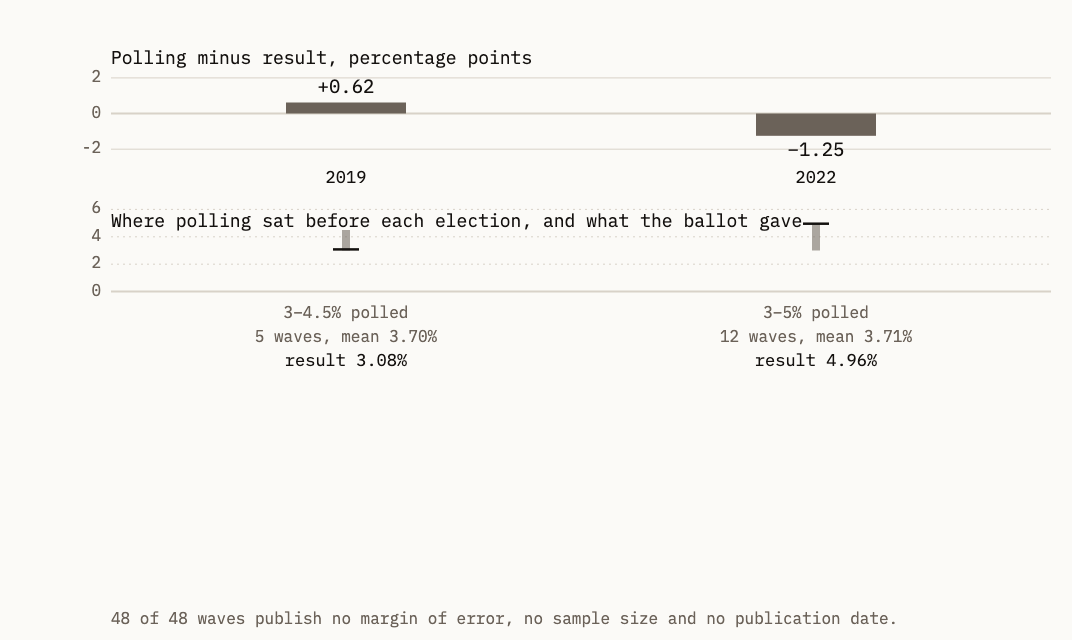
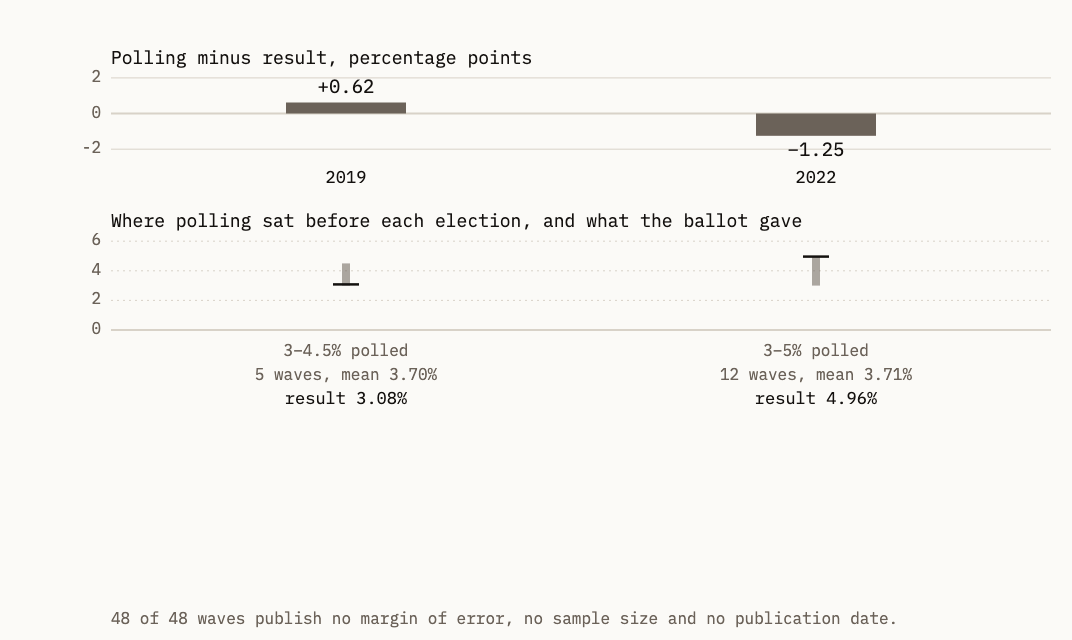
Start panel 2's plot below its own title
Chart 01's wide variant drew its panel-2 title inside the plot it labels.
The title's last glyph ended at x=795.2 and the 2022 result cap bar began
at x=796, at the same height, so "gave" read as struck through. Found by
eye on a screenshot; every existing check passed, because the overlap
check compares text to text and this is text to line.

The guard's direction was the bug, not its value. The plot was lowered to
clear its title only when span_title_y < gap_bottom + 64. Wide places the
title at 227.16 against a bound of 213.16, so the branch never ran -- and
it is false exactly when clearing panel 1 pushed the title furthest down,
which is the only case that needs the room. Each constant is reasonable;
the comparison named the wrong neighbour.

Extracting the placement to test the invariant surfaced a second flaw in
the same three lines: the first cut read span_title_y + 14, which measures
a one-line title's descent, but the title wraps to three lines on narrow,
so a wrapped title would be measured from its first baseline rather than
its last -- the same category of error, in the code written to fix it.
Replaced by title_block_bottom(baseline, n_lines), and the narrow fixture
corrected from two lines to the three it really renders.

Resolved as the geometry option rather than shortening the title, because
the editorial fix leaves the title drawn inside the plot and any longer
title brings the clash back.
[…]

Changed region(s): [[0.2155, 0.3438, 0.431, 0.6562], [0.6465, 0.3438, 0.8619, 0.6562], [0.0616, 0.4375, 0.0924, 0.4688]]

diff --git a/index.html b/index.html
@@ -105,26 +105,26 @@
   <text x="809.0" y="183.16000000000003" text-anchor="middle" font-size="17" text-anchor="middle" fill="var(--color-ink)">2022</text>
   <text x="809.0" y="155.8" text-anchor="middle" font-size="19" text-anchor="middle" fill="var(--color-ink)">−1.25</text>
   <text x="104" y="227.2" font-size="18" fill="var(--color-ink)">Where polling sat before each election, and what the ballot gave</text>
-  <line x1="104" y1="291.6" x2="1044" y2="291.6" stroke="var(--color-rule)" stroke-width="2" stroke-dasharray="none" />
-  <text x="94" y="295.6" font-size="16" text-anchor="end" fill="var(--color-ink-muted)">0</text>
-  <line x1="104" y1="264.2" x2="1044" y2="264.2" stroke="var(--color-rule)" stroke-width="1" stroke-dasharray="2 4" />
-  <text x="94" y="268.2" font-size="16" text-anchor="end" fill="var(--color-ink-muted)">2</text>
-  <line x1="104" y1="236.8" x2="1044" y2="236.8" stroke="var(--color-rule)" stroke-width="1" stroke-dasharray="2 4" />
-  <text x="94" y="240.8" font-size="16" text-anchor="end" fill="var(--color-ink-muted)">4</text>
-  <line x1="104" y1="209.4" x2="1044" y2="209.4" stroke="var(--color-rule)" stroke-width="1" stroke-dasharray="2 4" />
-  <text x="94" y="213.4" font-size="16" text-anchor="end" fill="var(--color-ink-muted)">6</text>
-  <line x1="339.0" y1="250.5" x2="339.0" y2="230.0" stroke="var(--band-edge)" stroke-width="8" stroke-linecap="butt" opacity="0.55" />
-  <line x1="339.0" y1="241.0" x2="339.0" y2="241.0" stroke="var(--color-ink)" stroke-width="1" />
-  <line x1="326.0" y1="249.4" x2="352.0" y2="249.4" stroke="var(--color-ink)" stroke-width="2.5" />
-  <text x="339.0" y="317.64" font-size="16" text-anchor="middle" fill="var(--color-ink-muted)">3&#8211;4.5% polled</text>
-  <text x="339.0" y="341.64" font-size="16" text-anchor="middle" fill="var(--color-ink-muted)">5 waves, mean 3.70%</text>
-  <text x="339.0" y="365.64" font-size="17" text-anchor="middle" fill="var(--color-ink)">result 3.08%</text>
-  <line x1="809.0" y1="250.5" x2="809.0" y2="223.1" stroke="var(--band-edge)" stroke-width="8" stroke-linecap="butt" opacity="0.55" />
-  <line x1="809.0" y1="240.8" x2="809.0" y2="240.8" stroke="var(--color-ink)" stroke-width="1" />
-  <line x1="796.0" y1="223.7" x2="822.0" y2="223.7" stroke="var(--color-ink)" stroke-width="2.5" />
-  <text x="809.0" y="317.64" font-size="16" text-anchor="middle" fill="var(--color-ink-muted)">3&#8211;5% polled</text>
-  <text x="809.0" y="341.64" font-size="16" text-anchor="middle" fill="var(--color-ink-muted)">12 waves, mean 3.71%</text>
-  <text x="809.0" y="365.64" font-size="17" text-anchor="middle" fill="var(--color-ink)">result 4.96%</text>
+  <line x1="104" y1="330.0" x2="1044" y2="330.0" stroke="var(--color-rule)" stroke-width="2" stroke-dasharray="none" />
+  <text x="94" y="334.0" font-size="16" text-anchor="end" fill="var(--color-ink-muted)">0</text>
+  <line x1="104" y1="300.4" x2="1044" y2="300.4" stroke="var(--color-rule)" stroke-width="1" stroke-dasharray="2 4" />
+  <text x="94" y="304.4" font-size="16" text-anchor="end" fill="var(--color-ink-muted)">2</text>
+  <line x1="104" y1="270.8" x2="1044" y2="270.8" stroke="var(--color-rule)" stroke-width="1" stroke-dasharray="2 4" />
+  <text x="94" y="274.8" font-size="16" text-anchor="end" fill="var(--color-ink-muted)">4</text>
+  <line x1="104" y1="241.2" x2="1044" y2="241.2" stroke="var(--color-rule)" stroke-width="1" stroke-dasharray="2 4" />
+  <text x="94" y="245.2" font-size="16" text-anchor="end" fill="var(--color-ink-muted)">6</text>
+  <line x1="339.0" y1="285.6" x2="339.0" y2="263.4" stroke="var(--band-edge)" stroke-width="8" stroke-linecap="butt" opacity="0.55" />
+  <line x1="339.0" y1="275.2" x2="339.0" y2="275.2" stroke="var(--color-ink)" stroke-width="1" />
+  <line x1="326.0" y1="284.4" x2="352.0" y2="284.4" stroke="var(--color-ink)" stroke-width="2.5" />
+  <text x="339.0" y="356" font-size="16" text-anchor="middle" fill="var(--color-ink-muted)">3&#8211;4.5% polled</text>
+  <text x="339.0" y="380" font-size="16" text-anchor="middle" fill="var(--color-ink-muted)">5 waves, mean 3.70%</text>
+  <text x="339.0" y="404" font-size="17" text-anchor="middle" fill="var(--color-ink)">result 3.08%</text>
+  <line x1="809.0" y1="285.6" x2="809.0" y2="256.0" stroke="var(--band-edge)" stroke-width="8" stroke-linecap="butt" opacity="0.55" />
+  <line x1="809.0" y1="275.1" x2="809.0" y2="275.1" stroke="var(--color-ink)" stroke-width="1" />
+  <line x1="796.0" y1="256.6" x2="822.0" y2="256.6" stroke="var(--color-ink)" stroke-width="2.5" />
+  <text x="809.0" y="356" font-size="16" text-anchor="middle" fill="var(--color-ink-muted)">3&#8211;5% polled</text>
+  <text x="809.0" y="380" font-size="16" text-anchor="middle" fill="var(--color-ink-muted)">12 waves, mean 3.71%</text>
+  <text x="809.0" y="404" font-size="17" text-anchor="middle" fill="var(--color-ink)">result 4.96%</text>
   <text x="104" y="624" font-size="16" fill="var(--color-ink-muted)">48 of 48 waves publish no margin of error, no sample size and no publication date.</text>
   </svg>
     <svg xmlns="http://www.w3.org/2000/svg" viewBox="0 0 420 620" class="chart chart-narrow" role="img" aria-labelledby="chart-01-title-narrow chart-01-desc-narrow" data-source-id="roymorgan-pvi aec-hor-2019-fp-by-party aec-hor-2022-fp-by-party" font-family="IBM Plex Mono, ui-monospace, monospace" style="aspect-ratio: 420 / 620; font-variant-numeric: tabular-nums">

diff --git a/tests/test_scales.py b/tests/test_scales.py
@@ -2380,3 +2380,96 @@ class TestVariantBreakpoint(unittest.TestCase):
         self.assertRegex(
             design, r"Never smaller than 16px", "DESIGN.md no longer states the label floor"
         )
+
+
+class TestPanel2TitlePlacement(unittest.TestCase):
+    """Panel 2's plot must start below its own title, on both viewports.
+
+    Written because the wide variant drew the title *inside* the plot it labels,
+    and its last glyph met the 2022 result marker 0.8px away. The old code
+    solved only the opposite problem (a title too high, overrunning panel 1) and
+    its guard could not fire in the case that needed it. See the 2026-10-18
+    Events entry: the numbers below are measured in a browser, not derived from
+    the source.
+    """
+
+    ROOT = Path(__file__).resolve().parent.parent
+
+    def setUp(self):
+        sys.path.insert(0, str(self.ROOT / "charts"))
+        import chart_01
+        self.mod = chart_01
+
+    def place(self, *, gap_bottom, span_top, n_lines, plot_bottom=330.0):
+        return self.mod.panel2_placement(
+            gap_bottom=gap_bottom, span_top=span_top,
+            span_bottom=span_top + 80, plot_bottom=plot_bottom,
+            n_span_lines=n_lines,
+        )
+
+    def wide(self):
+        # plot Box(top=56, bottom=330), GAP_PANEL_BOTTOM=0.34, SPAN_PANEL_TOP=0.56
+        return self.place(gap_bottom=149.16, span_top=209.44, n_lines=1)
+
+    def narrow(self):
+        # plot Box(top=52, bottom=342), same fractions. Narrow's title wraps to
+        # three lines at a 340-unit plot, which is the case the clamp branch
+        # exists for.
+        return self.place(gap_bottom=150.6, span_top=214.4, n_lines=3, plot_bottom=342.0)
+
+    def test_wide_plot_starts_below_its_own_title(self):
+        baseline, plot_top, _ = self.wide()
+        block_bottom = self.mod.title_block_bottom(baseline, 1)
+        self.assertGreaterEqual(
+            plot_top, block_bottom,
+            "panel 2's plot starts above the bottom of its own title, so the "
+            "title is drawn through the data",
+        )
+        # The defect measured 0.8px between the last glyph and the marker.
+        self.assertGreaterEqual(
+            plot_top - block_bottom, 0, "the title and the plot overlap"
+        )
+
+    def test_narrow_still_clears_panel_one(self):
+        baseline, plot_top, _ = self.narrow()
+        self.assertGreaterEqual(baseline, 150.6 + 64, "narrow's title rose into panel 1")
+        self.assertGreaterEqual(
+            plot_top, self.mod.title_block_bottom(baseline, 3),
+            "the invariant must hold for a three-line title too",
+        )
+        # The numbers the committed narrow SVG actually renders, so a change to
+        # the constants cannot silently move the mobile view.
+        self.assertAlmostEqual(baseline, 214.6, places=1)
+        self.assertAlmostEqual(plot_top, 280.6, places=1)
+
+    def test_two_line_block_measured_from_the_last_baseline(self):
+        """Wrap grows downward from the placement; the old elif used +14 only."""
+        one = self.mod.title_block_bottom(227.16, 1)
+        two = self.mod.title_block_bottom(227.16, 2)
+        self.assertAlmostEqual(two - one, self.mod.TITLE_LEADING, places=9)
+
+    def test_old_guard_could_not_fire_in_the_case_it_needed(self):
+        """Encode the superseded logic and show it violates the invariant.
+
+        Without this the test suite would pass on both the fix and the bug,
+        which is the recurring failure mode in this repo: a guard that points
+        at the wrong reference and stays green on the defect.
+        """
+        gap_bottom, span_top, n = 149.16, 209.44, 1
+        y = max(span_top - 14, gap_bottom + 78) - (n - 1) * 26
+        if y < gap_bottom + 64:      # the only branch the old code had
+            y = gap_bottom + 64
+            old_plot_top = y + 14 + (n - 1) * 26
+        else:
+            old_plot_top = span_top  # ...and this is the branch wide takes
+        self.assertGreater(
+            self.mod.title_block_bottom(y, n), old_plot_top,
+            "the superseded logic no longer leaves the title inside the plot, so "
+            "this test no longer demonstrates the bug it documents"
+        )
+        # ...and the current logic does not.
+        fixed = self.place(gap_bottom=gap_bottom, span_top=span_top, n_lines=n)
+        self.assertLessEqual(
+            self.mod.title_block_bottom(fixed[0], n), fixed[1],
+            "the fix does not satisfy the invariant it was written for"
+        )

diff --git a/charts/chart_01.py b/charts/chart_01.py
@@ -162,6 +162,60 @@ def gap_scale(plot: Box, values: list[float], span: float) -> Scale:
     return Scale(d0=nice_lo, d1=nice_hi, r0=plot.bottom, r1=plot.top)
 
 
+# Panel 2's title is placed against two different neighbours, and only solving
+# one of them produced two rounds of the same bug.
+PANEL1_CAPTION_CLEARANCE = 78   # below panel 1's axis, above panel 2's plot
+TITLE_DESCENT = 14              # box an 18px baseline carries beneath it
+TITLE_LEADING = 26              # step between wrapped title lines
+
+
+def title_block_bottom(baseline_y: float, n_lines: int) -> float:
+    """Lowest point of a wrapped title: last line's baseline plus its descent."""
+    return baseline_y + TITLE_DESCENT + (n_lines - 1) * TITLE_LEADING
+
+
+def panel2_placement(
+    *,
+    gap_bottom: float,
+    span_top: float,
+    span_bottom: float,
+    plot_bottom: float,
+    n_span_lines: int,
+) -> tuple[float, float, float]:
+    """Return (title baseline, plot top, plot bottom) for panel 2.
+
+    Two crowding problems point in opposite directions:
+
+    * The title can sit too *high*, overrun panel 1's captions, and be drawn
+      through them. That is the narrow variant, whose title wraps to two lines.
+    * The title can sit too *low*, inside panel 2's own plot area, and be drawn
+      through the data. That is the wide variant.
+
+    The original code handled only the first. Its guard tested
+    `span_title_y < gap_bottom + 64`, which is false exactly when clearing
+    panel 1 pushed the title furthest down -- the only case that then needed
+    the plot moved out of its way. On the wide variant the baseline landed at
+    227.16, below `span_top` of 209.44, so the title drew inside its own plot
+    and its last glyph met the 2022 result marker 0.8px away. Measured in a
+    browser, not inferred: see the 2026-10-18 Events entry, and
+    `tools/verify.mjs`, which reports the closest label-to-mark gap.
+
+    The invariant both branches now enforce is that the plot starts at or below
+    the bottom of its own title.
+    """
+    title_y = max(span_top - TITLE_DESCENT, gap_bottom + PANEL1_CAPTION_CLEARANCE)
+    # Extra lines grow upward from the placement, so the first line lifts.
+    title_y -= (n_span_lines - 1) * TITLE_LEADING
+
+    if title_y < gap_bottom + 64:
+        title_y = gap_bottom + 64
+        return title_y, title_block_bottom(title_y, n_span_lines), plot_bottom
+    block_bottom = title_block_bottom(title_y, n_span_lines)
+    if block_bottom > span_top:
+        return title_y, block_bottom, plot_bottom
+    return title_y, span_top, span_bottom
+
+
 def render(viewport: str, panels: dict) -> str:
     cfg = VIEWPORTS[viewport]
     w, h, plot = cfg["w"], cfg["h"], cfg["plot"]
@@ -194,18 +248,13 @@ def render(viewport: str, panels: dict) -> str:
     span_top = plot.top + box_h * SPAN_PANEL_TOP
     span_bottom = plot.top + box_h * SPAN_PANEL_BOTTOM
 
-    # Panel 1's labels sit below its axis; panel 2's title must clear them, and
-    # must clear its own extra lines. Both are measured in bounding boxes: an
-    # 18px line's box is about 23 units tall.
-    span_title_y = max(
-        span_top - 14,
-        gap_bottom + 78 + (len(gap_title_lines) - 1) * 0,
+    span_title_y, span_top, span_bottom = panel2_placement(
+        gap_bottom=gap_bottom,
+        span_top=span_top,
+        span_bottom=span_bottom,
+        plot_bottom=plot.bottom,
+        n_span_lines=len(span_title_lines),
     )
-    span_title_y -= (len(span_title_lines) - 1) * 26
-    if span_title_y < gap_bottom + 64:
-        span_title_y = gap_bottom + 64
-        span_top = span_title_y + 14 + (len(span_title_lines) - 1) * 26
-        span_bottom = plot.bottom
 
     gs = panels["gaps"]
     signed = [g.signed_gap for g in gs]

diff --git a/TASKS.md b/TASKS.md
@@ -449,42 +449,36 @@ Each active task has a detailed file in `_tasks/`. TASKS.md is the index.
 
 ## BACKLOG
 
-- **Chart 01 panel-2 title collides with the 2022 result marker (wide only).**
-  Found 2026-10-18 by eye on the recaptured 1280px screenshot, after the
-  breakpoint work. `verify.mjs` reports `overlap=0` because it only checks
-  text-against-text; this is text-against-line, which no check covers.
-  > **Measured in the browser with `getBBox`, not inferred from the source**,
-  > because the first version of this note recorded the wrong numbers after
-  > quoting a stale code comment. Panel 1's year labels occupy y 166.2-188.2.
-  > Panel 2's title occupies y 209.2-232.2 and runs from x=104 to x=795.2. The
-  > 2022 result cap bar spans x 796-822 at y=223.7, which is inside the title's
-  > vertical band, and clears its last glyph by **0.8px**. Sub-pixel is not the
-  > same as clear: at 1:1 the two read as one mark, and "gave" looks struck
-  > through.
-  > **The cause is a guard that cannot fire, not a bad constant.** With
-  > `plot.top=56`, `box_h=274`, `GAP_PANEL_BOTTOM=0.34` and
-  > `SPAN_PANEL_TOP=0.56`: `gap_bottom` is 149.16 and `span_top` is 209.44.
-  > `span_title_y` takes `max(span_top - 14, gap_bottom + 78)` =
-  > max(195.44, **227.16**) = 227.16, so the title is placed by panel 1's
-  > clearance, not by panel 2's top. The branch that would lower `span_top` to
-  > make room is `if span_title_y < gap_bottom + 64`, i.e. `227.16 < 213.16`,
-  > which is **false** — and false precisely when the title has been pushed
-  > furthest down, which is the only case that needs the room. So the title
-  > lands 17.8 units below `span_top`, inside its own plot, and the marker is in
-  > it. The guard's direction is the bug; changing a number cannot fix it.
-  > `chart_01.py` records this placement being wrong in "the first two passes",
-  > so a third tweak of the same constants is not the answer.
-  > Three real options, each a decision: (a) make the guard's condition about
-  > `span_top` rather than about `gap_bottom`, so the plot always starts below
-  > its own title — geometry, and the likely right fix; (b) shorten the title so
-  > its last glyph clears x=796 — editorial, and still leaves the title inside
-  > the plot; (c) move panel 1's value labels above its bars, freeing the row —
-  > changes how panel 1 reads. Recommend deciding with the chart in front of
-  > you, then adding a text-against-line check to `verify.mjs`, because the
-  > collision is invisible to every check that exists today.
-  Not caused by this PR's breakpoint change: the screenshots are byte-identical
-  before and after it, and the collision is in the committed chart SVG already
-  on `main` since `d5bf306`.
+- ~~**Chart 01 panel-2 title collides with the 2022 result marker (wide only).**~~
+  **FIXED 2026-10-18** — see the Events entry of that date for the derivation
+  and the tests. Kept here, struck through, because the *diagnosis* below is the
+  reusable part: it is a worked example of a guard that points at the wrong
+  reference, which is this repo's most common defect class.
+  > Found by eye on the recaptured 1280px screenshot, after the breakpoint work.
+  > `verify.mjs` reported `overlap=0` because it only checks text-against-text;
+  > this is text-against-line, which no check covered. Measured in the browser
+  > with `getBBox`: panel 1's year labels occupy y 166.2-188.2; panel 2's title
+  > occupied y 209.2-232.2 and ran from x=104 to x=795.2; the 2022 result cap bar
+  > spanned x 796-822 at y=223.7, clearing the title's last glyph by **0.8px**.
+  > Sub-pixel is not the same as clear: at 1:1 the two read as one mark.
+  > **The cause was a guard that could not fire, not a bad constant.** With
+  > `plot.top=56`, `box_h=274`, `GAP_PANEL_BOTTOM=0.34`, `SPAN_PANEL_TOP=0.56`:
+  > `gap_bottom` is 149.16 and `span_top` is 209.44. `span_title_y` took
+  > `max(span_top - 14, gap_bottom + 78)` = max(195.44, **227.16**) = 227.16, so
+  > the title was placed by panel 1's clearance, not by panel 2's top. The branch
+  > that would lower `span_top` tested `span_title_y < gap_bottom + 64`, i.e.
+  > `227.16 < 213.16` — **false precisely when the title had been pushed furthest
+  > down**, the only case needing the room. The guard's *direction* was the bug;
+  > no value of any constant fixes a test that cannot fire.
+  > A second latent flaw surfaced while extracting it: the branch used
+  > `span_title_y + 14` for a title that can wrap to two lines, so a wrapped
+  > title would have been measured from its first baseline, not its last. The
+  > fix measures the block bottom explicitly.
+  > Resolved as option (a) from the three considered: the plot now always starts
+  > at or below the bottom of its own title. Narrow is byte-identical, which is
+  > the point — the narrow case was already correct and is handled by the other
+  > branch.
+
 
 
 - **Corrections policy page** — `docs/corrections.md` exists as an internal
@@ -1447,3 +1441,60 @@ Append-only. Newest last.
   branch testing `227.16 < 213.16` is false exactly when the room is needed), and
   the root cause named: the guard's condition points at `gap_bottom` when it
   needs to point at `span_top`. Option (a) is now stated as the likely fix.
+
+- 2026-10-18 — **Fixed the Chart 01 title collision, and the fix found a second
+  latent flaw in the same three lines.** The BACKLOG entry below records the
+  diagnosis; this records what changing it turned up.
+
+  **The guard's direction was the bug, not its value.** Panel 2's plot was
+  lowered to make room for its title only when `span_title_y < gap_bottom + 64`.
+  On the wide variant the title sits at 227.16 and that bound is 213.16, so the
+  branch never ran — and it is false *exactly* when clearing panel 1 pushed the
+  title furthest down, which is the only situation that needs the room. Every
+  constant in the expression was reasonable; the comparison tested the wrong
+  neighbour. This is the same class as the provenance gate that used a raw
+  substring where the registry needed parsing, and the drift check ordered behind
+  a step that fails by design.
+
+  **Extracting it to test the invariant surfaced a second bug.** The new branch
+  first read `span_title_y + 14`, which measures a *one-line* title's descent.
+  The title wraps to three lines on narrow, so a wrapped title would be measured
+  from its first baseline rather than its last — the same category of error as
+  the original, in the code written to fix it. Replaced with an explicit
+  `title_block_bottom(baseline, n_lines)`, and the narrow fixture corrected from
+  two lines to the three it actually renders.
+
+  **Resolved as the geometry option, not the editorial one.** Of the three
+  choices recorded in the BACKLOG entry, (a) — make the plot start below its own
+  title — was correct because it fixes the invariant rather than the symptom:
+  shortening the title would still leave it drawn inside the plot, and any longer
+  title reintroduces the clash.
+
+  **Narrow is byte-identical, which was the requirement.** The two branches serve
+  different viewports: narrow needed the clamp that already worked, wide needed
+  the guard that could not fire. Proven by `git diff` on `chart-01-narrow.svg`
+  rather than by argument, and pinned by asserting the exact values the committed
+  narrow SVG renders (baseline 214.6, plot top 280.6), so changing a constant
+  cannot silently move the mobile view.
+
+  **Four tests added, and the two that matter were falsified in memory** by
+  monkeypatching the superseded logic back in: `test_wide_plot_starts_below_its_
+  own_title` fails with "209.44 not greater than or equal to 241.16", and
+  `test_old_guard_could_not_fire_in_the_case_it_needed` fails its second half.
+  Narrow's tests pass either way, correctly, because narrow was never broken.
+  Done in-process because copying the repo to `/tmp` to mutate it needs approval
+  that isn't grantable mid-run — a scratch copy is the habit to avoid anyway,
+  having once reverted uncommitted work with a `git checkout -- .` inside one.
+
+  `tools/verify.mjs` now reports the closest label-to-mark gap per chart as a
+  **diagnostic, not a gate**. An earlier version failed on any gap under 2 units
+  and produced 40+ problems, because a series label pointing at its own data
+  point sits at gap 0 by design. A threshold tuned until today's output passes is
+  today's output encoded, not a property asserted — so it reports the number and
+  the label carrying it, and a human reads it. Chart 01's title gap went 0.0 ->
+  22.1px.
+
+  Suite 179 -> **183 tests, OK**. `tools/build.py --check` exits 0. Browser sweep
+  passes every hard invariant at all nine widths. Exactly one screenshot changed
+  (`chart-01-1280px.png`); the other five are byte-identical, which is the
+  expected result and also confirms the capture is deterministic.

diff --git a/AGENTS.md b/AGENTS.md
@@ -202,3 +202,17 @@ verifiable CDN with an integrity hash recorded in `docs/data-sources.md`.
   one step either side. `TestVariantBreakpoint` now derives it from the geometry
   (`--track-full` less two gutters equals the wide viewBox) so it cannot be
   re-derived from the wrong sample.
+- **A guard can test the wrong neighbour and stay green on its own defect.**
+  Found again 2026-10-18 in `chart_01.py`: panel 2's plot was lowered to clear
+  its title only when `span_title_y < gap_bottom + 64`, which is false exactly
+  when the title had been pushed furthest down — the only case needing the room.
+  Every constant was reasonable; the comparison named the wrong reference. When
+  you write a guard, ask *which* quantity it must be bounded by, and add a test
+  that restores the superseded logic and asserts the guard fires on it. Passing
+  a test that never exercised the defect is how this class survives.
+- **When you fix a bug by moving code into a function, the move is where the
+  next bug is.** Extracting the panel placement above turned up a second flaw in
+  the same three lines: `span_title_y + 14` measured a one-line title's descent,
+  but the title wraps to three lines on narrow, so it was measured from the wrong
+  baseline — the same category of error as the bug being fixed. Re-derive the
+  arithmetic when you extract it; do not transcribe it.
